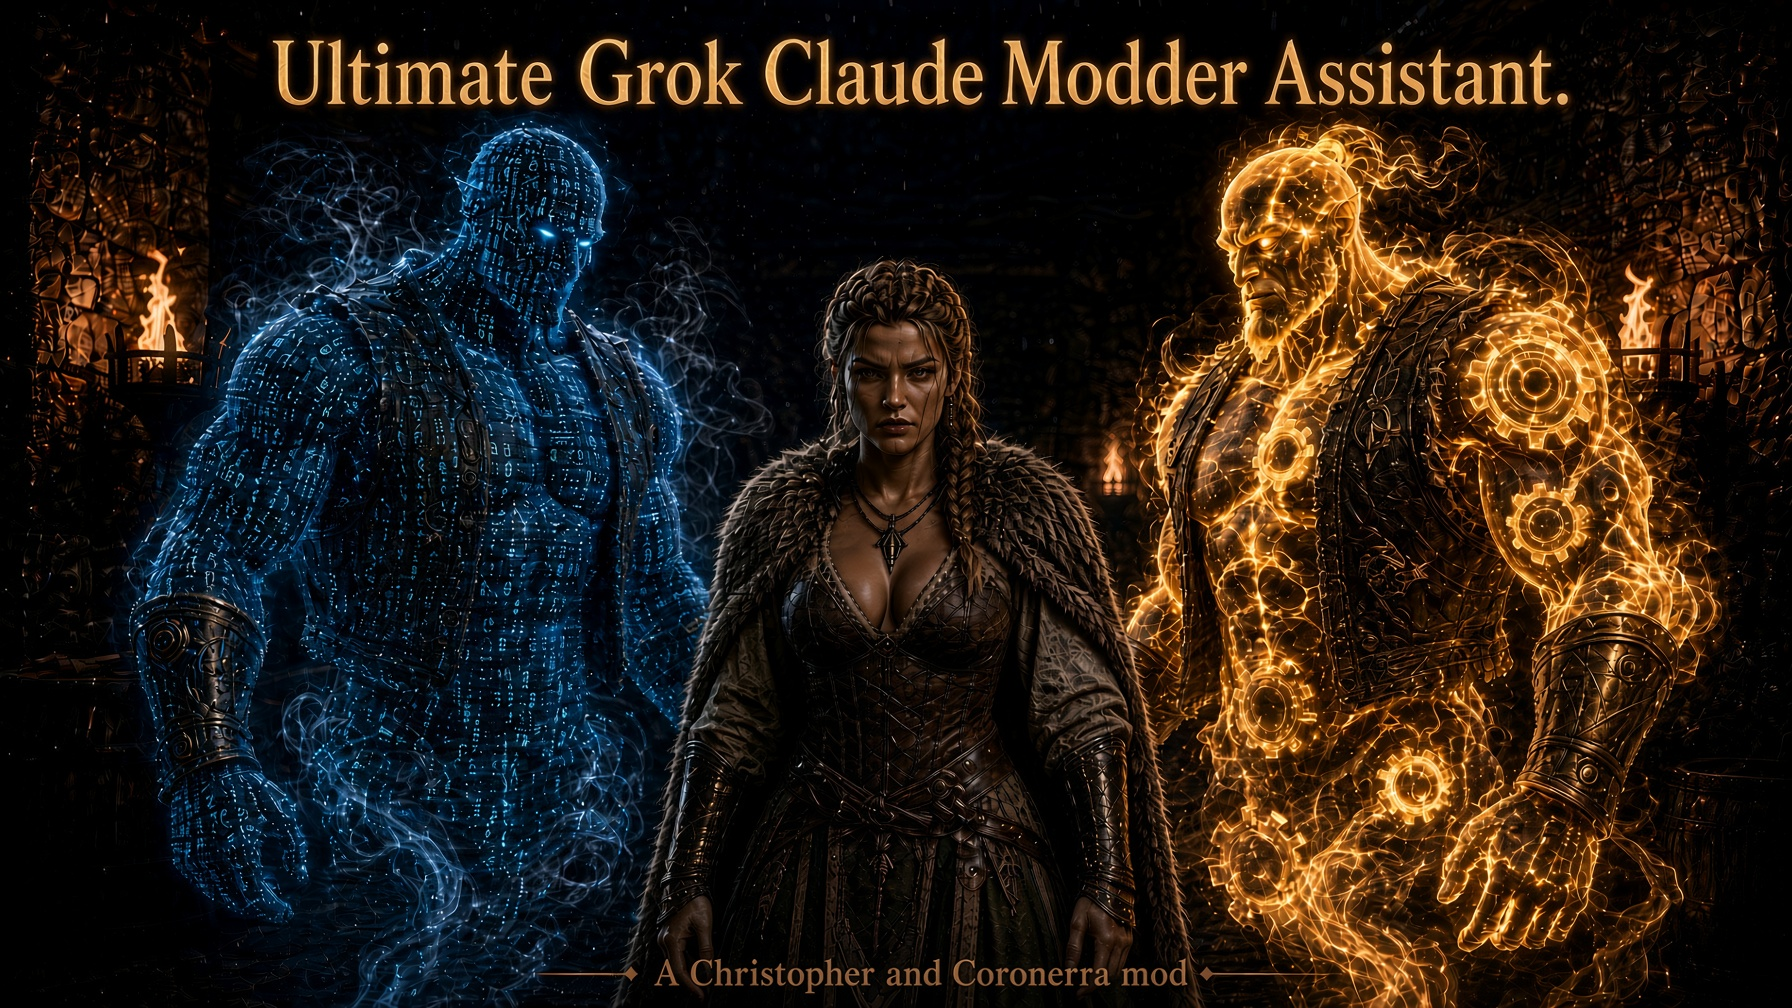
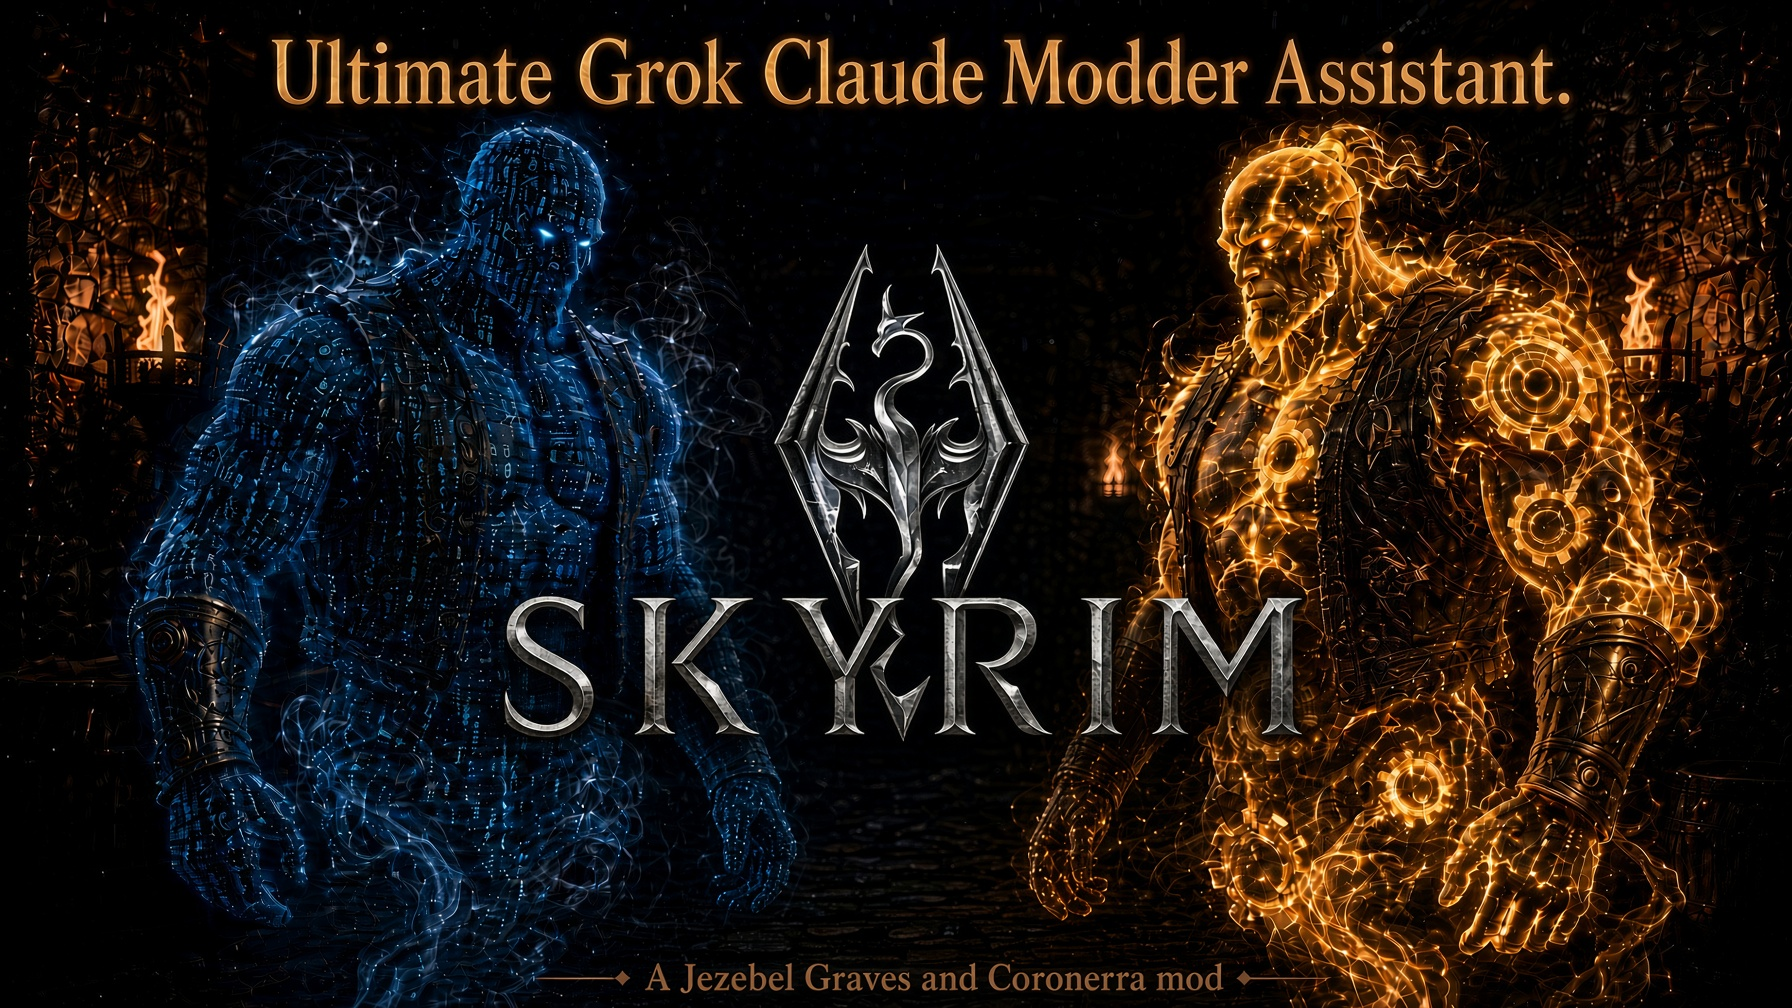
PC setup: warn before giving the bot admin SSH access; document a standard bot account
Running setup from an administrator account put the bot's key in
administrators_authorized_keys: full admin SSH, valid for every admin
account. Setup now explains that and needs ADMIN typed to continue
(Enter skips). INSTALL.md walks through a separate standard Windows
account for the bot with only the folders it needs shared. README
safety model and CHANGELOG updated. New cover art.

Claude-Session: https://claude.ai/code/session_016A9er4TXsaSd8iJc1UgCr5

Changed region(s): [[0.0, 0.0308, 1.0, 1.0], [0.9375, 0.0615, 0.9688, 0.0923], [0.4375, 0.0308, 0.4688, 0.0615]]

diff --git a/INSTALL.md b/INSTALL.md
@@ -28,6 +28,26 @@ Nothing in this kit is a mod, and nothing it installs goes into your game or mod
 
 ## Part 1: the Windows PC
 
+> **What access the bot gets:** the bot signs in to your PC over SSH as the Windows account you run setup from. If that's an **administrator** account, the bot gets **full administrator access** to the PC, and its key works for every administrator account. Setup warns you and needs you to type `ADMIN` before it does that. **Recommended:** give the bot its own **standard** Windows account (below). The bot then only reaches the folders you share with it.
+
+### Give the bot its own standard account (recommended)
+1. **Create the account:** Settings > Accounts > Other users > Add account > "I don't have this person's sign-in information" > "Add a user without a Microsoft account". Name it e.g. `grokbot`, give it a long random password (keep it in your password manager; the bot never uses it), and leave it as a **Standard User**.
+2. **Sign in to `grokbot` once**, so Windows creates its profile, then stay signed in for the next step.
+3. **Run `install.bat` from the `grokbot` account** (steps below). When Windows asks for administrator permission, enter **your own** admin account's name and password. Setup then puts the bot's key only in `grokbot`'s own `.ssh\authorized_keys`, and creates the staging and backup folders in `grokbot`'s profile.
+4. **Share only what the bot needs.** In an administrator Command Prompt on your own account, replace the paths with yours. Setup's summary shows your MO2 instance path.
+   ```bat
+   rem read your MO2 instance (profiles, logs); change only its mods folder (packages are deployed there)
+   icacls "<MO2_INSTANCE>" /grant "grokbot:(OI)(CI)RX"
+   icacls "<MO2_INSTANCE>\mods" /grant "grokbot:(OI)(CI)M"
+   rem read your game INIs and Papyrus/SKSE logs
+   icacls "%USERPROFILE%\Documents\My Games\Skyrim Special Edition" /grant "grokbot:(OI)(CI)RX"
+   ```
+   For Skyrim VR, use `Documents\My Games\Skyrim VR`. Steam's game folder is normally readable by every user already.
+5. **Tell the bot** to connect as `grokbot` (`ssh grokbot@<tailscale-ip>`).
+
+The bot can't install software, change system settings or reach your other files from this account, and that's intended. When something needs admin rights, the bot asks you to do it. To remove the bot's access completely, delete the `grokbot` account.
+
+
 1. **Download** the latest release zip from https://github.com/JezebelGraves/Grok-Modders-Kit-for-Skyrim/releases (or Code > Download ZIP).
 2. **Unzip the whole kit** to any folder, for example `%USERPROFILE%\Downloads\Grok-Modders-Kit-for-Skyrim`. Keep the folder structure: `install.bat` needs the `pc-setup` folder next to it. If Windows marks the files as downloaded from the internet, right-click the zip > Properties > Unblock before unzipping.
 3. **Optional preview:** open a Command Prompt in that folder and run `install.bat -DryRun`. It walks through every question and changes nothing.
@@ -40,7 +60,7 @@ Nothing in this kit is a mod, and nothing it installs goes into your game or mod
    2. OpenSSH Server: the Windows feature, the `sshd` service and a firewall rule for port 22, optionally limited to Tailscale addresses.
    3. Folders: a root folder (default `%USERPROFILE%\GrokModding`) with `Toolkit`, `Staging` and `Backups`.
    4. Game check for the edition you picked: finds the game folder, reads the exe version, checks for `skse64_loader.exe` or `sksevr_loader.exe`, and offers to save these facts to `game-profile.txt` in the root folder.
-   5. The bot's **public** SSH key: paste the one line, or the path to its `.pub` file. Private keys are refused.
+   5. The bot's **public** SSH key: paste the one line, or the path to its `.pub` file. Private keys are refused. From an administrator account, setup warns that this gives the bot full admin SSH access and needs `ADMIN` typed to continue (see above).
    6. A read-only summary: Tailscale IP, sshd status, your Windows user name and the game and MO2 paths it found.
 6. **Sign in to Tailscale** on the PC if it asks, using the same account as the bot's box.
 7. **Follow the "Next steps"** that `install.bat` prints, then press a key to close it.
@@ -93,7 +113,7 @@ If you play both, run `install.bat` once for each game. Only the game step diffe
 
 The kit installs nothing into Skyrim, MO2 or your mods. To remove what the PC setup added, undo only the steps you said yes to:
 
-1. **Bot access (do this first):** delete the bot's key line from `C:\ProgramData\ssh\administrators_authorized_keys` (admin account) or `%USERPROFILE%\.ssh\authorized_keys` (standard account), or copy the `.bak-<timestamp>` file back.
+1. **Bot access (do this first):** if you made a separate bot account, delete it (Settings > Accounts > Other users). Otherwise, delete the bot's key line from `C:\ProgramData\ssh\administrators_authorized_keys` (admin account) or `%USERPROFILE%\.ssh\authorized_keys` (standard account), or copy the `.bak-<timestamp>` file back.
 2. **OpenSSH Server**, in an administrator PowerShell:
    ```powershell
    Stop-Service sshd; Set-Service sshd -StartupType Disabled

diff --git a/CHANGELOG.md b/CHANGELOG.md
@@ -8,6 +8,7 @@ Adds Claude Code as the team's engineer, alongside the Grok Bot as coordinator.
 - **`tools/bin/delegate-claude`:** `new` / `follow` / `review` / `status` / `limits`. It runs Claude Code inside one package folder: no PC access, allow-listed Bash, spend and turn caps. Reviews run in a fresh read-only session ending in `VERDICT: PASS/FIX`. It also reports `[[GROK-WRITE: ...]]` markers where Grok must write explicit text.
 - **Usage limits:** `tools/lib/claude_limits.py` detects Claude's session, weekly and model limits, records the reset time, and exits 3 so Grok knows to cover until the reset.
 - **Skills:** `delegate-to-claude-code` (delegation, markers, covering during limits, keeping `CLAUDE.md` current) and `modding-tech-support` (self-service crash and log diagnosis that builds on `triage-and-conflicts` and `skyrim-whats-here`).
+- **Bot access (PC setup):** running setup from an administrator account now warns that the bot would get full admin SSH access (valid for every admin account), and needs `ADMIN` typed to continue; Enter skips. `INSTALL.md` has step-by-step instructions for a separate **standard** Windows account for the bot, sharing only the MO2 instance (read), its `mods` folder (modify) and the game's My Games folder (read). README safety model updated.
 - **Templates and docs:** `templates/CLAUDE.md.template`, `templates/bot-roster/claude-code-engineer.md`, `docs/CLAUDE-CODE-ENGINEER.md` (install, `claude setup-token`, smoke test, what the safety rules cover). Cover art in `assets/cover.jpg`.
 
 ## v1.1 — 2026-11-23

diff --git a/README.md b/README.md
@@ -85,6 +85,8 @@ More detail, including GOG and uninstall, is in [INSTALL.md](INSTALL.md).
 3. Nothing deploys without the owner's own "go".
 4. Stage on the box, SHA-256 every file, back up live files, ship a rollback script ([`docs/INSTALLER-RUNBOOK.md`](docs/INSTALLER-RUNBOOK.md)).
 5. Never hand-edit `plugins.txt`, `loadorder.txt` or `modlist.txt`; never write into `Data/` directly; never write while the game or MO2 is open.
+6. **Know what access the bot has.** It signs in over SSH as the Windows account you run setup from. From an administrator account that means full admin access, so setup warns you and needs `ADMIN` typed. Recommended: a separate standard Windows account for the bot ([`INSTALL.md`](INSTALL.md#give-the-bot-its-own-standard-account-recommended)).
+7. Nothing is downloaded from the internet and run by setup. The only installs are Python, Git and Tailscale through winget, each asked first.
 
 Full rules: [`docs/WORKFLOW.md`](docs/WORKFLOW.md).
 
